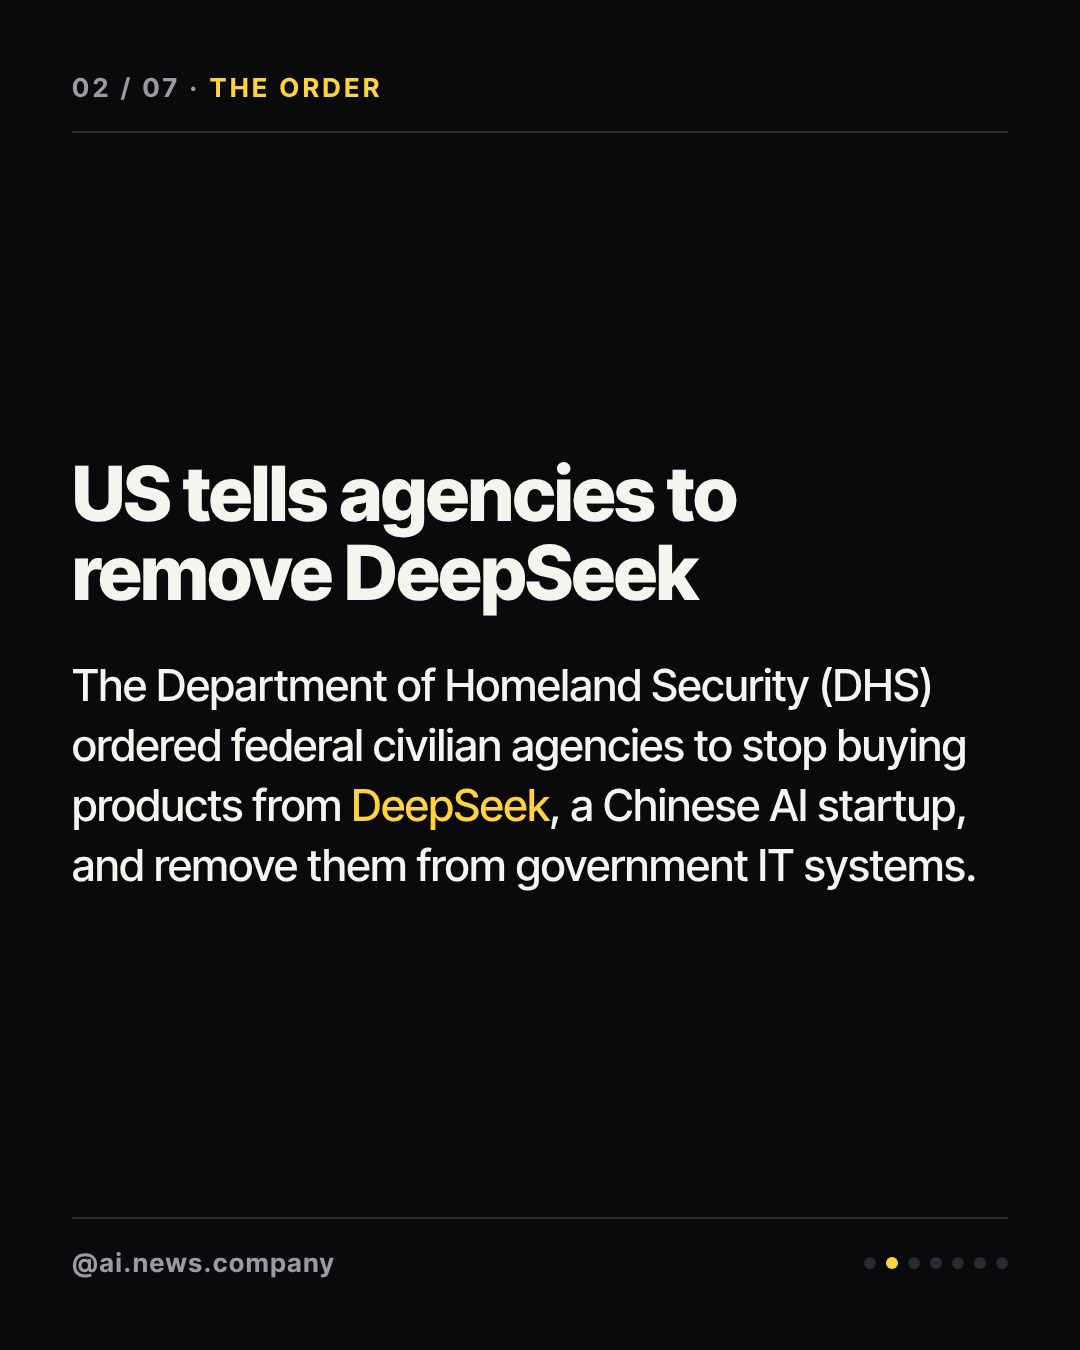
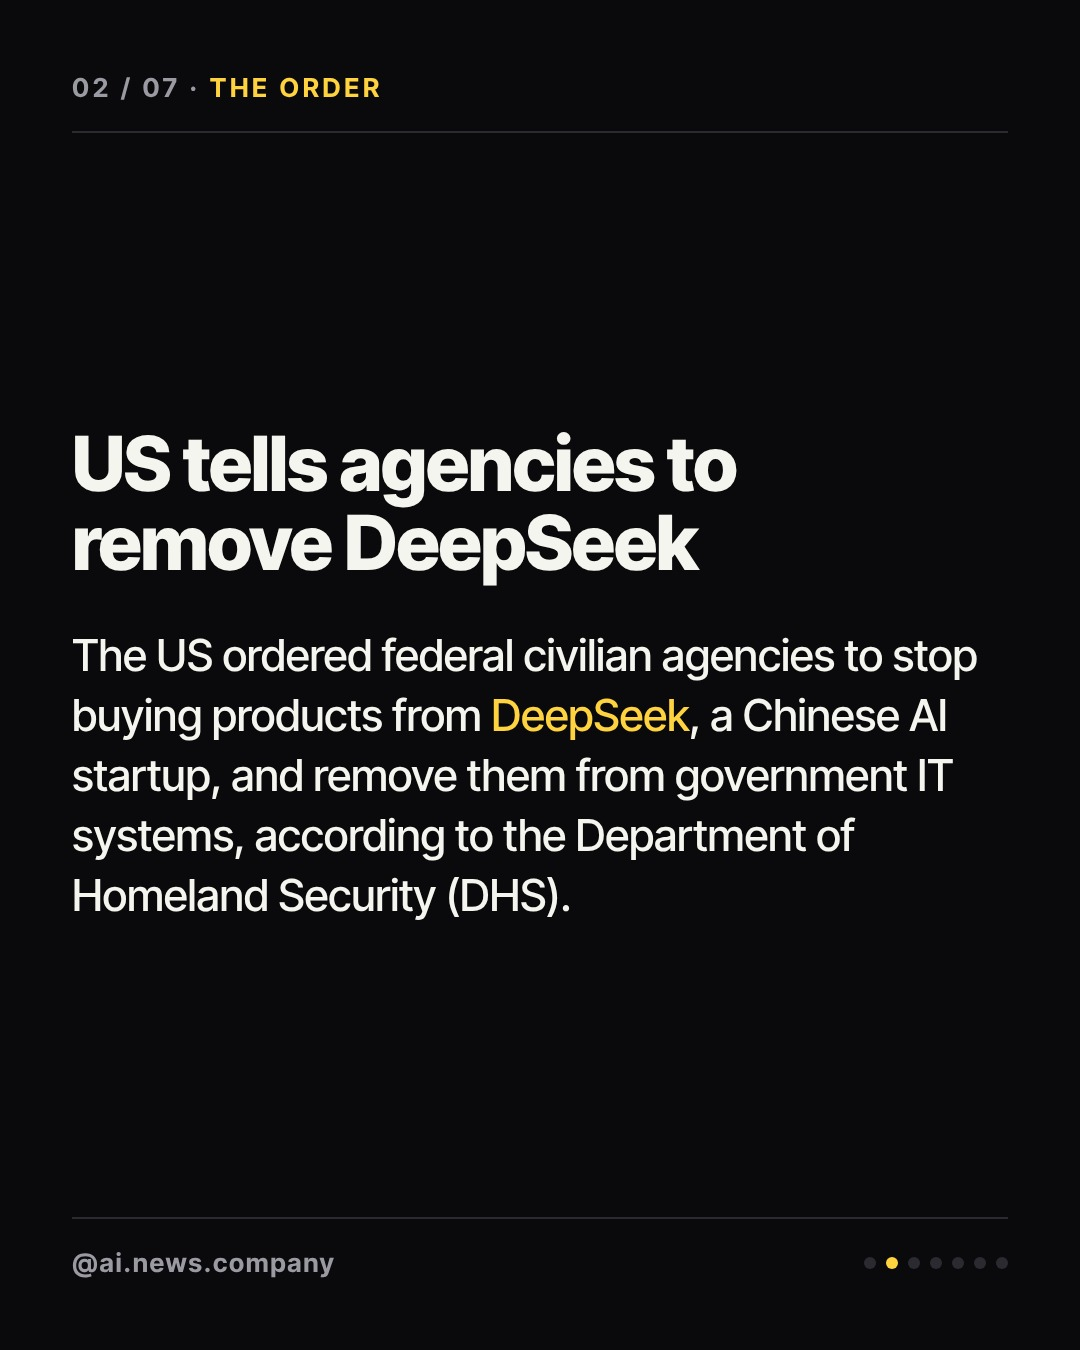
wip: round-1 revisions 2026-10-21
Claude-Session: https://claude.ai/code/session_017P8ZThvzfbM8QPr9tQvrgo

Changed region(s): [[0.0611, 0.3111, 0.9167, 0.6844]]

diff --git a/posts/2026-10-21-kyobo-ai-book-order/review-fact-checker.md b/posts/2026-10-21-kyobo-ai-book-order/review-fact-checker.md
@@ -1,0 +1,11 @@
+FAIL
+
+Source: The Korea Herald, "Kyobo rejects suspicious 100,000-book order amid AI copyright fears", Oct 20, 2026 (https://www.koreaherald.com/article/10908784). Title, outlet and date match. The fetch tool returned a summary, not verbatim text.
+
+Issues
+1. Slide 2, body, caption bullet 1 and facts[2]. Wrong attribution of the contract terms. In the article the buyer said it could give no further information under the contract terms. Kyobo did not decline "under its contract terms". Kyobo rejected the order because it could not verify the end recipient, and the company placing the order was not the end recipient. Fix: "The buyer said only that the final recipient was a data company and that, under its contract terms, it could give no more information. Kyobo could not verify the end recipient and rejected the order." Correct the caption and facts[2] the same way.
+2. Slide 4, caption bullet 3 and facts[4]. "Investigate", "probe" and "plans a probe" overstate. The article describes a survey of major bookstores, secondhand booksellers and distributors on attempts to acquire books in bulk, and says nothing of a formal investigation. Fix: "Publishers plan a survey" and "plans to survey major bookstores, used bookstores and distributors on bulk-buying attempts". Change the caption to "plans a survey".
+3. Slide 3. "Buying books in bulk is a new scene" is not in the article. The article says Kyobo treats checking the use and recipient of bulk orders as routine and says this had not been an issue before. Remove the sentence, or replace it with a sourced one, for example "Kyobo says verifying the use and recipient of bulk orders is routine."
+4. Slide 2, minor. "The only thing it could confirm about the final recipient was that it is a data company" should be "the buyer said only that...". The buyer's claim was not something Kyobo confirmed. This is covered by fix 1.
+
+Checked and OK: 100,000 books; one copy of each title, any subject; overseas company with no prior transaction history; Kyobo as Korea's largest bookstore operator; the AI training data concern with the buyer's purpose unconfirmed; the Korean Publishers Association urging lawmakers to strengthen book copyright law; the cover headline "KYOBO SAID NO TO 100,000 BOOKS".

diff --git a/posts/2026-10-21-us-deepseek-ban/review-fact-checker.md b/posts/2026-10-21-us-deepseek-ban/review-fact-checker.md
@@ -1,0 +1,18 @@
+FAIL
+
+Source checked: TechCrunch, "US orders federal agencies to remove China's DeepSeek AI from their systems", Kate Park, Oct 20, 2026. The title, outlet and date match.
+
+Issues
+1. Slide 1 body and caption attribute the order to DHS ("The Department of Homeland Security (DHS) ordered..."). The article says the US ordered the agencies, citing DHS as the source. It does not say DHS issued the order, and it links a Federal Register notice. Fix: write "The US ordered federal civilian agencies to stop buying... according to the Department of Homeland Security (DHS)", in the slide and the caption.
+2. Hook option 3 ("2 US MOVES NOW TARGET DEEPSEEK") is not supported by the article. It describes one order plus an earlier law, which does not clearly make "2 moves". It is not the chosen cover, but remove it or fix it so it cannot be picked later.
+
+Verified OK
+- Cover headline "US AGENCIES MUST DROP DEEPSEEK" is supported.
+- Slide 2: third-party products and services are covered, and exceptions can be requested.
+- Slide 3: DHS warned that sensitive data from US government users could be accessible to Chinese authorities under Chinese law.
+- Slide 4: a December 2025 law targeted DeepSeek in intelligence national security systems. The new order extends the limits to civilian agencies, for new purchases and existing systems.
+- Slide 5 quote and speaker: Mao Ning, Foreign Ministry spokesperson. The quote matches exactly. The "overstretching" quote is also exact.
+- Caption: the "politicizing technology and trade issues" quote is accurate. The source line is correct.
+- "Chinese AI startup" matches the article's wording.
+
+Limits of this check: the fetch tool returned a summary plus targeted answers, not the full article text. The Mao Ning quotes were confirmed only through a targeted query.
